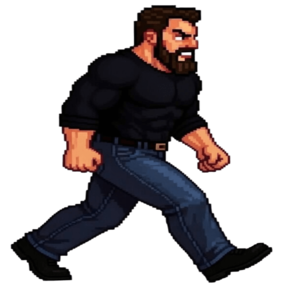
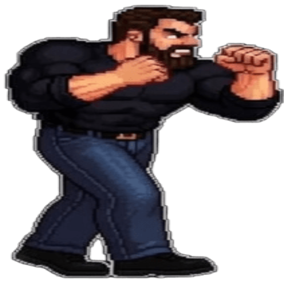
update enemy

diff --git a/src/entities/StageEnemy.js b/src/entities/StageEnemy.js
@@ -142,6 +142,12 @@ export class StageEnemy {
             return;
         }
 
+        if (data.isBeingThrown || data.isReturning) {
+            sprite.body?.setVelocity(0, 0);
+            this.updateHpBar();
+            return;
+        }
+
         if (!player || player.isDead) {
             sprite.body.setVelocity(0, 0);
             this.updateHpBar();
@@ -309,11 +315,13 @@ export class StageEnemy {
         sprite.setTexture("enemy_punch1");
         this.ajustarEscalaSprite();
 
-        this.scene.time.delayedCall(70, () => {
-            if (!data.isDead && !data.isRemoving && data.isAttacking) {
-                sprite.setTexture("enemy_punch2");
-                this.ajustarEscalaSprite();
-            }
+        this.scene.time.delayedCall(170, () => {
+            if (this.data.isDead || this.data.isRemoving) return;
+            if (this.data.isBeingThrown || this.data.isReturning) return;
+
+            this.data.isHurt = false;
+            this.sprite.play("enemy_idle", true);
+            this.ajustarEscalaSprite();
         });
 
         this.scene.time.delayedCall(125, () => {
@@ -386,19 +394,105 @@ export class StageEnemy {
     }
 
     arremessar(player) {
-        if (!player?.sprite) return;
-        if (this.data.isDead || this.data.isRemoving) return;
+            if (!player?.sprite) return;
+            if (!this.sprite || !this.sprite.active) return;
+            if (this.data.isDead || this.data.isRemoving) return;
+            if (this.data.isBeingThrown || this.data.isReturning) return;
 
-        const direcao = player.sprite.x < this.sprite.x ? 1 : -1;
+            const sprite = this.sprite;
+            const data = this.data;
 
-        this.scene.tweens.add({
-            targets: this.sprite,
-            x: Phaser.Math.Clamp(this.sprite.x + direcao * 70, 30, this.worldWidth - 30),
-            y: Phaser.Math.Clamp(this.sprite.y + 8, this.floorTop, this.floorBottom),
-            duration: 180,
-            ease: "Quad.Out"
-        });
-    }
+            data.isHurt = true;
+            data.isAttacking = false;
+            data.isBeingThrown = true;
+            data.isReturning = false;
+
+            sprite.body.setVelocity(0, 0);
+            sprite.anims.stop();
+            sprite.setTexture("enemy_damage");
+            this.ajustarEscalaSprite();
+
+            this.scene.tweens.killTweensOf(sprite);
+
+            const direcao = player.sprite.x < sprite.x ? 1 : -1;
+
+            const xInicial = sprite.x;
+            const yInicial = sprite.y;
+
+            const xPico = Phaser.Math.Clamp(
+                xInicial + direcao * 85,
+                40,
+                this.worldWidth - 40
+            );
+
+            const yPico = Phaser.Math.Clamp(
+                yInicial - 34,
+                this.floorTop,
+                this.floorBottom
+            );
+
+            const xFinal = Phaser.Math.Clamp(
+                xInicial + direcao * 155,
+                40,
+                this.worldWidth - 40
+            );
+
+            const yFinal = Phaser.Math.Clamp(
+                yInicial + 10,
+                this.floorTop,
+                this.floorBottom
+            );
+
+            this.scene.tweens.add({
+                targets: sprite,
+                x: xPico,
+                y: yPico,
+                duration: 150,
+                ease: "Quad.Out",
+                onComplete: () => {
+                    if (!sprite.active) return;
+                    if (data.isDead || data.isRemoving) return;
+
+                    // Usa animação de queda no chão
+                    sprite.play("enemy_death", true);
+                    this.ajustarEscalaSprite();
+
+                    this.scene.tweens.add({
+                        targets: sprite,
+                        x: xFinal,
+                        y: yFinal,
+                        duration: 260,
+                        ease: "Quad.In",
+                        onComplete: () => {
+                            if (!sprite.active) return;
+                            if (data.isDead || data.isRemoving) return;
+
+                            // Fica caído um instante antes de levantar
+                            this.scene.time.delayedCall(360, () => {
+                                this.levantarDepoisDoArremesso();
+                            });
+                        }
+                    });
+                }
+            });
+        }
+
+        levantarDepoisDoArremesso() {
+            if (!this.sprite || !this.sprite.active) return;
+            if (this.data.isDead || this.data.isRemoving) return;
+
+            const sprite = this.sprite;
+            const data = this.data;
+
+            data.isBeingThrown = false;
+            data.isReturning = false;
+            data.isHurt = false;
+            data.isAttacking = false;
+
+            sprite.body.setVelocity(0, 0);
+            sprite.play("enemy_idle", true);
+            this.ajustarEscalaSprite();
+        }
 
     morrer(origemX = null) {
         if (this.data.isDead || this.data.isRemoving) return;

diff --git a/src/scenes/Phase2.js b/src/scenes/Phase2.js
@@ -143,6 +143,9 @@ export class Phase2 extends Phaser.Scene {
         this.criarMensagens();
         this.criarAudio();
 
+        this.bossLoreOpen = false;
+        this.events.on("boss:lore", this.mostrarDossieBoss, this);
+
         this.dialogosIniciais = [
             {
                 nome: "Daniel",
@@ -182,6 +185,18 @@ export class Phase2 extends Phaser.Scene {
 
     update() {
         if (!this.leona || !this.player || !this.keys) return;
+
+        if (this.bossLoreOpen) {
+            if (
+                Phaser.Input.Keyboard.JustDown(this.keys.ENTER) ||
+                Phaser.Input.Keyboard.JustDown(this.keys.SPACE) ||
+                Phaser.Input.Keyboard.JustDown(this.keys.ESC)
+            ) {
+                this.fecharDossieBoss();
+            }
+
+            return;
+        }
 
         if (this.retryOpen) {
             if (
@@ -1125,7 +1140,8 @@ export class Phase2 extends Phaser.Scene {
 
         if (configAtual.tipo === "boss") {
             if (this.bossFightStarted && this.boss && this.boss.data.isDead) {
-                this.concluirVitoria();
+                // A vitória agora é chamada depois que o dossiê fecha.
+                return;
             }
         }
     }
@@ -1294,6 +1310,100 @@ export class Phase2 extends Phaser.Scene {
         });
     }
 
+
+mostrarDossieBoss(info) {
+    if (this.bossLoreOpen) return;
+
+    this.bossLoreOpen = true;
+
+    this.physics.pause();
+
+    this.leona?.sprite?.body?.setVelocity(0, 0);
+    this.boss?.sprite?.body?.setVelocity(0, 0);
+
+    this.enemies.forEach((enemy) => {
+        enemy?.sprite?.body?.setVelocity(0, 0);
+    });
+
+    this.dossieOverlay = this.add.rectangle(640, 360, 1280, 720, 0x000000, 0.68)
+        .setScrollFactor(0)
+        .setDepth(50000);
+
+    this.dossieBox = this.add.rectangle(640, 360, 820, 380, 0x151515, 0.96)
+        .setStrokeStyle(3, 0x7efcff)
+        .setScrollFactor(0)
+        .setDepth(50001);
+
+    this.dossieTitulo = this.add.text(640, 205, info.titulo || "Dossiê desbloqueado", {
+        fontSize: "30px",
+        color: "#7efcff",
+        fontStyle: "bold",
+        stroke: "#000000",
+        strokeThickness: 5
+    })
+        .setOrigin(0.5)
+        .setScrollFactor(0)
+        .setDepth(50002);
+
+    this.dossieNome = this.add.text(640, 255, info.nome || "Boss derrotada", {
+        fontSize: "24px",
+        color: "#ffffff",
+        fontStyle: "bold",
+        stroke: "#000000",
+        strokeThickness: 4
+    })
+        .setOrigin(0.5)
+        .setScrollFactor(0)
+        .setDepth(50002);
+
+    this.dossieTexto = this.add.text(300, 305, info.texto || "", {
+        fontSize: "18px",
+        color: "#f2f2f2",
+        align: "left",
+        wordWrap: {
+            width: 680,
+            useAdvancedWrap: true
+        },
+        lineSpacing: 10
+    })
+        .setOrigin(0, 0)
+        .setScrollFactor(0)
+        .setDepth(50002);
+
+    this.dossieHint = this.add.text(640, 505, "Pressione ENTER, SPACE ou ESC para continuar", {
+        fontSize: "18px",
+        color: "#ffd166",
+        stroke: "#000000",
+        strokeThickness: 4
+    })
+        .setOrigin(0.5)
+        .setScrollFactor(0)
+        .setDepth(50002);
+}
+
+fecharDossieBoss() {
+    if (!this.bossLoreOpen) return;
+
+    this.bossLoreOpen = false;
+
+    this.dossieOverlay?.destroy();
+    this.dossieBox?.destroy();
+    this.dossieTitulo?.destroy();
+    this.dossieNome?.destroy();
+    this.dossieTexto?.destroy();
+    this.dossieHint?.destroy();
+
+    this.dossieOverlay = null;
+    this.dossieBox = null;
+    this.dossieTitulo = null;
+    this.dossieNome = null;
+    this.dossieTexto = null;
+    this.dossieHint = null;
+
+    this.physics.resume();
+
+    this.concluirVitoria();
+}
 
 mostrarRetry() {
     if (this.retryOpen || this.isGameEnding || this.levelComplete) return;
@@ -1472,6 +1582,17 @@ mostrarRetry() {
     }
 
     finalizarCena() {
+
+        this.events.off("boss:lore", this.mostrarDossieBoss, this);
+
+        this.dossieOverlay?.destroy();
+        this.dossieBox?.destroy();
+        this.dossieTitulo?.destroy();
+        this.dossieNome?.destroy();
+        this.dossieTexto?.destroy();
+        this.dossieHint?.destroy();
+
+        this.bossLoreOpen = false;
         
         if (this.retryOpen) {
             this.fecharRetry();

diff --git a/src/entities/Boss2Training.js b/src/entities/Boss2Training.js
@@ -124,6 +124,16 @@ export class Boss2Training {
         this.startDelayEvent = scene.time.delayedCall(600, () => {
             this.iniciarCarregamento();
         });
+
+        this.loreInfo = config.loreInfo ?? {
+            nome: "Kayla, a Condutora de Raios",
+            titulo: "Dossiê desbloqueado",
+            texto:
+                "Kayla era uma das executoras da Aurora, treinada para transformar dor em energia. " +
+                "Sua técnica canalizava descargas elétricas pelo próprio corpo, criando tempestades curtas, " +
+                "mas violentas. Derrotá-la revelou que a Aurora estava usando guerreiros modificados " +
+                "como barreiras vivas para proteger algo maior."
+        };
     }
 
     update(player, aiEnabled = true) {
@@ -595,6 +605,8 @@ export class Boss2Training {
         this.sprite.anims.stop();
         this.sprite.setTexture("boss2_damage4");
         this.ajustarEscalaSprite();
+
+        this.scene.events.emit("boss:lore", this.loreInfo);
 
         this.scene.events.emit("boss2:derrotada", {
             nome: "Kayla, a Condutora de Raios",
